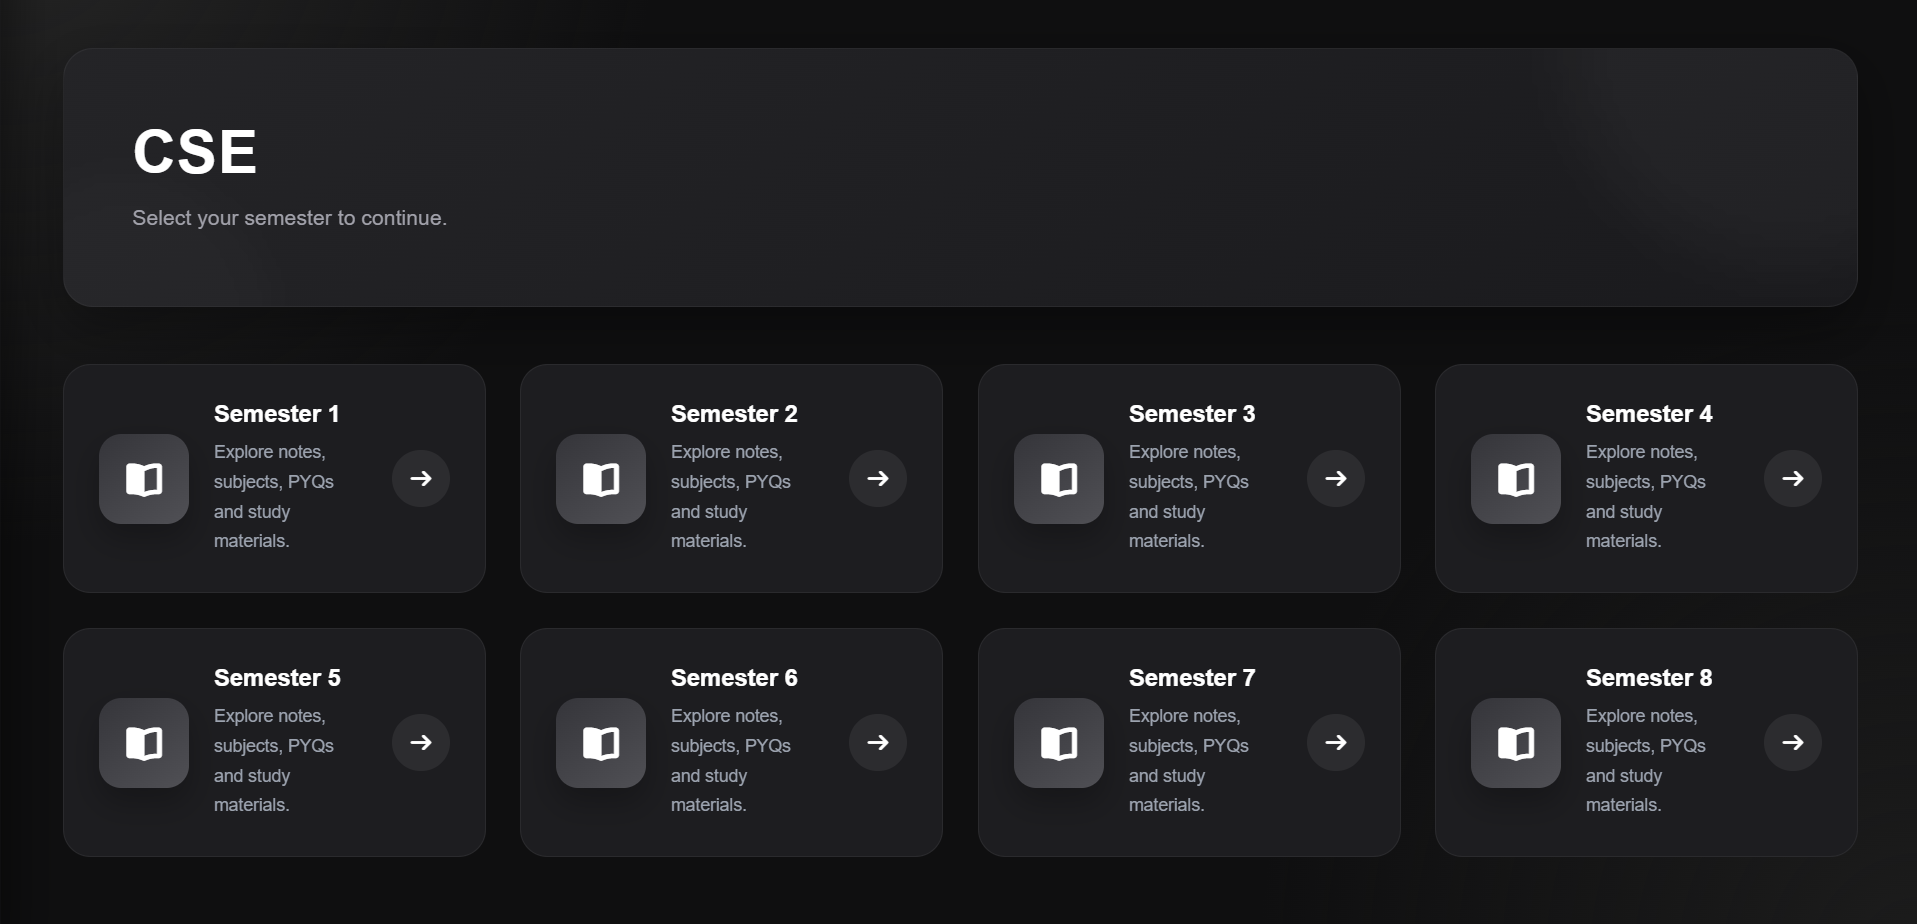
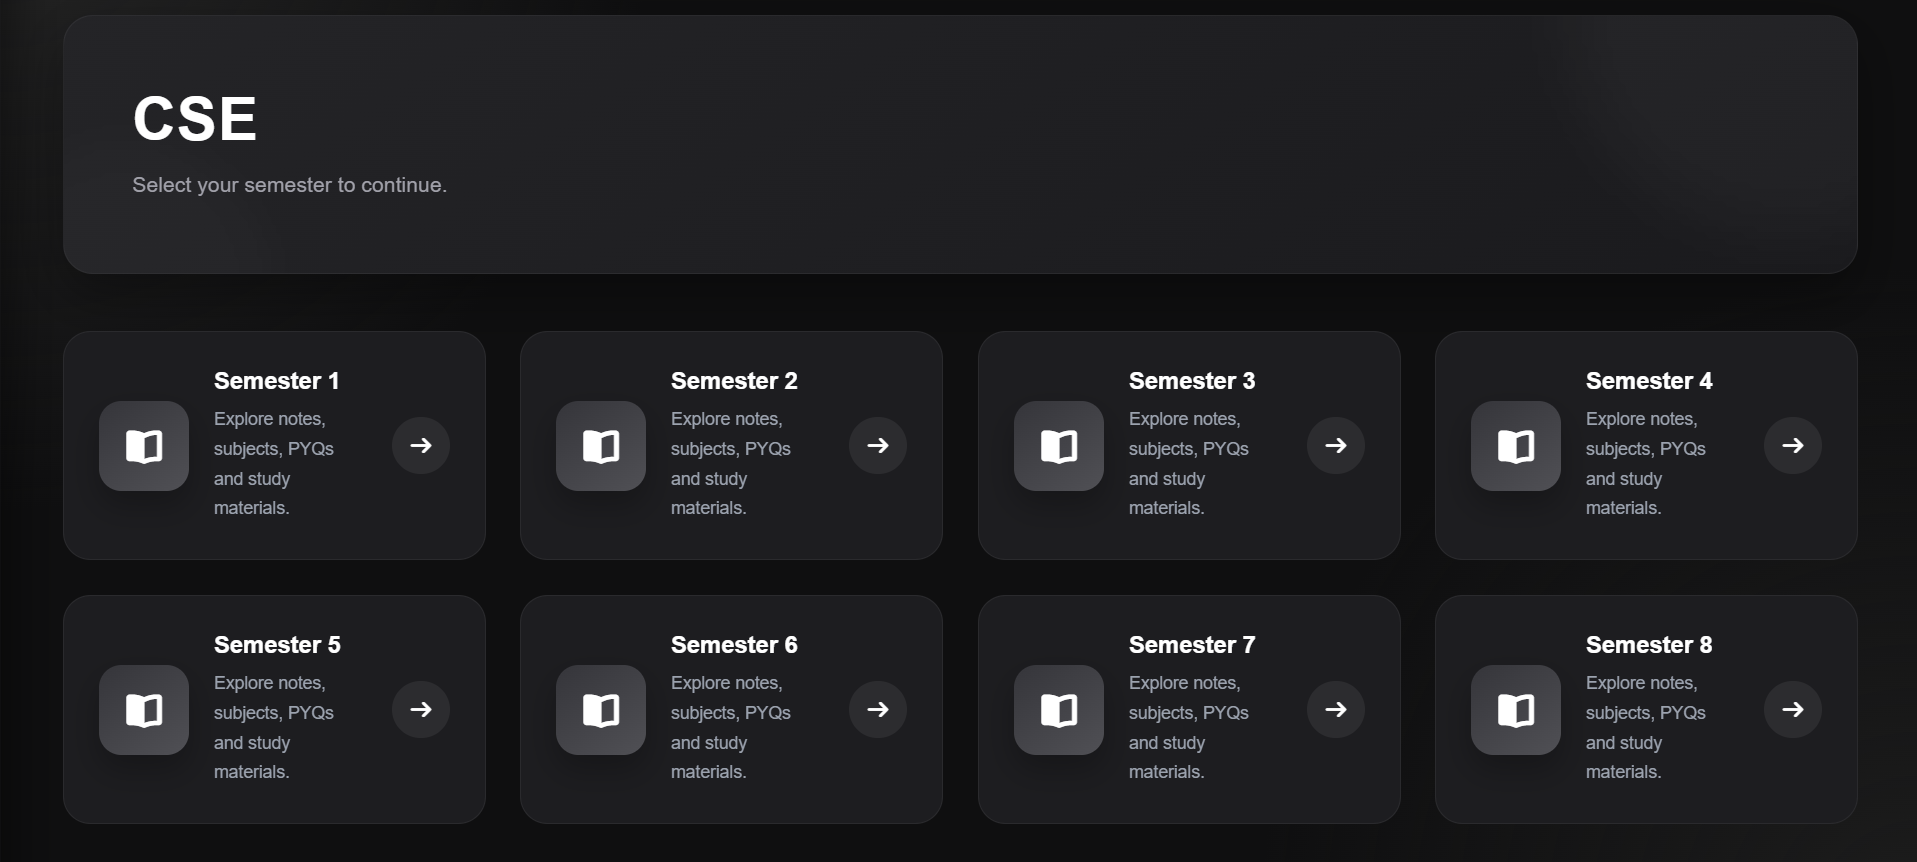
changed landing page

diff --git a/codes/public/css/landing.css b/codes/public/css/landing.css
@@ -198,12 +198,14 @@ nav a:hover{
     font-size:15px;
 }
 
+
 .browser{
     background:#111;
     border-radius:22px;
     overflow:hidden;
     border:1px solid rgba(255,255,255,.08);
-    box-shadow:0 30px 80px rgba(0,0,0,.45);
+    box-shadow:0 25px 60px rgba(0,0,0,.45);
+    width:100%;
     transform:rotate(-5deg);
     transition:.4s;
 }
@@ -211,12 +213,26 @@ nav a:hover{
     transform:rotate(0deg) scale(1.02);
 }
 .browser-top{
-    height:52px;
+    height:55px;
     display:flex;
-    align-items:center;
     justify-content:space-between;
+    align-items:center;
     padding:0 20px;
-    background:#181818;
+    background:#1b1b1b;
+}
+.browser-top p{
+    color:#bcbcbc;
+    font-size:14px;
+}
+.browser-body{
+    background:#0b0b0b;
+    position: relative;
+    height: 290px;
+    overflow: hidden;
+    padding:10px;
+}
+.browser-body img{
+    border-radius:12px;
 }
 
 .dots{
@@ -238,17 +254,7 @@ nav a:hover{
     background:#00ca4e;
 }
 
-.browser-top p{
-    color:#a8a8a8;
-    font-size:14px;
-}
-.browser-body{
-    background:#0e0e0e;
-    padding:10px;
-}
-.browser-body img{
-    border-radius:12px;
-}
+
 
 
 /* PART 2 */
@@ -354,47 +360,7 @@ nav a:hover{
     justify-content:center;
     align-items:center;
 }
-.browser{
-    width:100%;
-    background:#111;
-    border-radius:22px;
-    overflow:hidden;
-    border:1px solid rgba(255,255,255,.08);
-    box-shadow:0 25px 60px rgba(0,0,0,.45);
-}
-.browser-top{
-    height:55px;
-    display:flex;
-    justify-content:space-between;
-    align-items:center;
-    padding:0 20px;
-    background:#1b1b1b;
-}
-.browser-top p{
-    color:#bcbcbc;
-    font-size:14px;
-}
-.browser-body{
-    background:#0b0b0b;
-}
-.dots{
-    display:flex;
-    gap:8px;
-}
-.dots span{
-    width:12px;
-    height:12px;
-    border-radius:50%;
-}
-.dots span:nth-child(1){
-    background:#ff5f57;
-}
-.dots span:nth-child(2){
-    background:#febc2e;
-}
-.dots span:nth-child(3){
-    background:#28c840;
-}
+
 .slider{
     position:relative;
     width:100%;
@@ -489,7 +455,6 @@ nav a:hover{
 }
 
 /* Features */
-
 .features{
     padding:120px 8%;
     background:#070707;
@@ -551,15 +516,19 @@ nav a:hover{
     transform:translateY(-10px);
 }
 .feature-right{
+    position: relative;
     display:flex;
     flex-direction:column;
     align-items:center;
+    overflow: hidden;
 }
 .feature-image{
     position:absolute;
-    /* inset:0; */
+    inset:0;
     width:100%;
-    /* opacity:0; */
+    height:100%;
+    opacity:0;
+    object-fit: contain;
     transform:scale(.96);
     transition:.8s;
 }
@@ -737,39 +706,64 @@ nav a:hover{
 }
 
 /* Footer */
-
 footer{
-    background:#080808;
+    background:#1313136b;
     border-top:1px solid rgba(255,255,255,.08);
 }
-
 .footer-top{
     padding:100px 8%;
     display:grid;
     grid-template-columns:2fr 1fr 1fr 1fr;
     gap:60px;
 }
-
 .footer-about img{
     width:90px;
     margin-bottom:15px;
 }
-
 .footer-about h2{
     font-size:42px;
     margin-bottom:20px;
 }
-
 .footer-about p{
     color:#b8b8b8;
     line-height:30px;
     max-width:420px;
 }
 
+.footer-links h3{
+    margin-bottom:22px;
+    font-size:22px;
+}
+.footer-links a{
+    display:block;
+    margin-bottom:16px;
+    color:#b8b8b8;
+    transition:.3s;
+}
+.footer-links a:hover{
+    color:#67d46d;
+    padding-left:8px;
+}
+
+.footer-bottom{
+    border-top:1px solid rgba(255,255,255,.08);
+    padding:30px 8%;
+    display:flex;
+    justify-content:space-between;
+    align-items:center;
+}
+.footer-bottom p{
+    color:#8f8f8f;
+}
+.prince{
+    display: flex;
+    flex-direction: row;
+}
 .socials{
     display:flex;
     gap:15px;
-    margin-top:30px;
+    margin-top:-13px;
+    padding-left: 20px;
 }
 .socials a{
     width:48px;
@@ -787,37 +781,18 @@ footer{
     color:#050505;
     transform:translateY(-5px);
 }
+.socials > :first-child:hover {
+    background: white;
+}
+.socials > :nth-child(2):hover {
+    background: rgb(64, 74, 221);
+    color: white;
+}
 .socials > :last-child:hover {
-    background: linear-gradient(purple,pink,red,yellow)
-}
-.footer-links h3{
-    margin-bottom:22px;
-    font-size:22px;
+    background: linear-gradient(220deg, purple,red,yellow);
+    color: white;
 }
 
-.footer-links a{
-    display:block;
-    margin-bottom:16px;
-    color:#b8b8b8;
-    transition:.35s;
-}
-
-.footer-links a:hover{
-    color:#67d46d;
-    padding-left:8px;
-}
-
-.footer-bottom{
-    border-top:1px solid rgba(255,255,255,.08);
-    padding:30px 8%;
-    display:flex;
-    justify-content:space-between;
-    align-items:center;
-}
-
-.footer-bottom p{
-    color:#8f8f8f;
-}
 
 .top-btn{
     width:55px;
@@ -929,6 +904,7 @@ footer{
 }
 
 @media(max-width:768px){
+
     header{
         flex-direction:column;
         gap:25px;
@@ -937,28 +913,29 @@ footer{
         flex-wrap:wrap;
         justify-content:center;
     }
+
     .hero{
         padding-top:170px;
+        padding-bottom:40px;
     }
-
     .hero-container{
         width:92%;
+        padding-top: 10px;
     }
-
+    .hero-badge{
+        margin-bottom: 26px;
+    }
     .hero-left h1{
         font-size:46px;
     }
-
     .hero-left p{
         font-size:16px;
         line-height:30px;
     }
-
     .hero-buttons{
         flex-direction:column;
         align-items:center;
     }
-
     .hero-stats{
         gap:30px;
         flex-wrap:wrap;
@@ -966,16 +943,19 @@ footer{
 
     .browser{
         transform:none;
-        margin-top: -60px;
+        margin-top: -55px;
+    }
+    .browser-body{
+        height: 162px;
     }
 
-    .browser-body{
-        height: 160px;
-    }
     .section-head h2{
         font-size:38px;
     }
 
+    .platform{
+        padding-right: 8%;
+    }
     .platform-left h2,
     .about-left h2{
         font-size:48px;
@@ -1002,8 +982,10 @@ footer{
     .footer-top{
         grid-template-columns:1fr;
         text-align:center;
+        gap: 40px;
+        padding-top: 50px;
+        padding-bottom: 50px;
     }
-
     .footer-about{
         display:flex;
         flex-direction:column;
@@ -1016,37 +998,43 @@ footer{
 
     .footer-bottom{
         flex-direction:column;
-        gap:20px;
+        gap:50px;
+        padding: 44px 4%;
+    }
+    .footer-bottom p{
+        /* font-size: 10px; */
+    }
+    .socials{
+        margin-top: 0;
     }
 
 }
 
 @media(max-width:500px){
-
     .hero-left h1{
         font-size:38px;
     }
-
+    .logo img{
+        width: 85px;
+    }
     .logo h2{
-        font-size:24px;
+        font-size:33px;
     }
-
     .logo p{
-        font-size:11px;
+        font-size:14px;
+        margin-left: -7px;
     }
-
     nav{
-        gap:15px;
+        flex-wrap: nowrap;
     }
-
     nav a{
         font-size:14px;
     }
-
     .nav-btn{
-        padding:12px 20px;
+        padding:12px 3px;
+        font-size:14px;
+        color: black;
     }
-
     .section-head h2{
         font-size:32px;
     }
